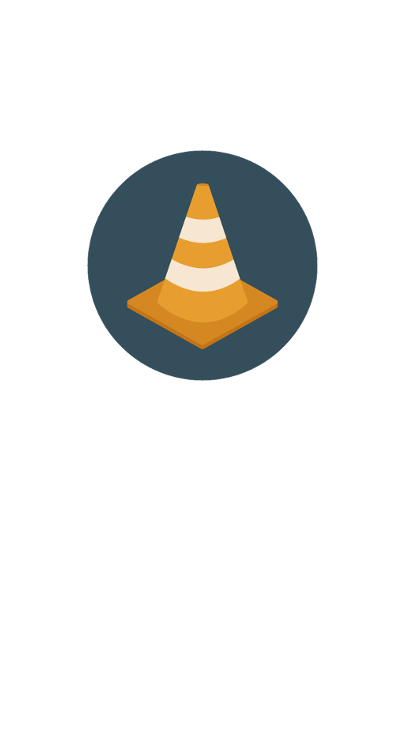
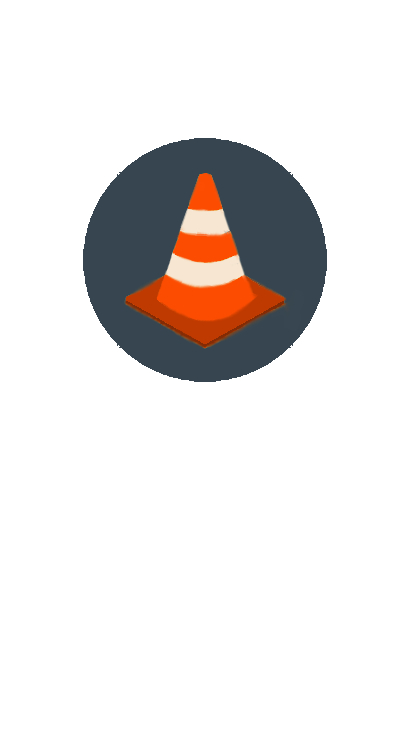
general styling

diff --git a/components/login.js b/components/login.js
@@ -1,10 +1,10 @@
 import React, { Component } from 'react'
-import { Text, ImageBackground, View, StyleSheet, Dimensions } from 'react-native'
+import { Text, ImageBackground, View, Image, StyleSheet, Dimensions } from 'react-native'
 import { Container, Header, Content, Form, Item, Input, Label, Button } from 'native-base'
 import { auth } from '../store'
 import { connect } from 'react-redux'
 
-//const ScreenHeight = Dimensions.get('window').height;
+const ScreenHeight = Dimensions.get('window').height;
 
 class Login extends Component {
   constructor() {
@@ -38,38 +38,43 @@ class Login extends Component {
     //   </View>
     // )
     return (
-      <View style={styles.container}>
-        <Form>
-          <Item stackedLabel>
-            <Label>Username</Label>
-            <Input
-              autoFocus
-              autoCapitalize='none'
-              value={this.state.username}
-              onChangeText={(text) => this.setState({ username: text })} />
-          </Item>
-          <Item stackedLabel>
-            <Label>Password</Label>
-            <Input
-              secureTextEntry
-              value={this.state.password}
-              onChangeText={(text) => this.setState({ password: text })} />
-          </Item>
-          {!!this.state.error &&
-            <Item>
-              <Text style={styles.error}>Incorrect username or password</Text>
-            </Item>
-          }
-          <Button primary block onPress={() => {
-            this.props.handleSubmit(this.state.username, this.state.password, 'login')
-              .then((res) => {
-                if (res.error) this.setState({ error: res.error })
-              }).catch((error) => console.error(error))
-          }}>
-            <Text style={styles.buttonText}>Login</Text>
-          </Button>
-        </Form>
-      </View>
+      <Container style={{ backgroundColor: "white" }}>
+        <Content style={styles.container}>
+          <Image source={require('../customStyling/logo5.jpg')} style={styles.image} />
+          <View >
+            <Form>
+              <Item stackedLabel>
+                <Label>Username</Label>
+                <Input
+                  autoFocus
+                  autoCapitalize='none'
+                  value={this.state.username}
+                  onChangeText={(text) => this.setState({ username: text })} />
+              </Item>
+              <Item stackedLabel>
+                <Label>Password</Label>
+                <Input
+                  secureTextEntry
+                  value={this.state.password}
+                  onChangeText={(text) => this.setState({ password: text })} />
+              </Item>
+              {!!this.state.error &&
+                <Item>
+                  <Text style={styles.error}>Incorrect username or password</Text>
+                </Item>
+              }
+              <Button primary block style={styles.button} onPress={() => {
+                this.props.handleSubmit(this.state.username, this.state.password, 'login')
+                  .then((res) => {
+                    if (res.error) this.setState({ error: res.error })
+                  }).catch((error) => console.error(error))
+              }}>
+                <Text style={styles.text}>Login</Text>
+              </Button>
+            </Form>
+          </View>
+        </Content>
+      </Container>
     )
   }
 }
@@ -77,11 +82,16 @@ class Login extends Component {
 const styles = StyleSheet.create({
   container: {
     backgroundColor: 'white',
+    marginTop: 100,
+    marginLeft: 10,
+    marginRight: 10
   },
   button: {
     width: '80%',
-    marginTop: 375,
+    marginTop: 10,
     alignSelf: 'center',
+    backgroundColor: '#FC4C02',
+    //color: 'white'
   },
   flex: {
     flex: 1,
@@ -96,9 +106,12 @@ const styles = StyleSheet.create({
   },
   image: {
     //height: ScreenHeight,
-    width: '100%',
-    marginTop: 0,
+    //width: '10%',
+    marginTop: 20,
     alignSelf: 'center',
+  },
+  text: {
+    color: 'white'
   }
 })
 

diff --git a/components/resident/AddPotholeLocation.js b/components/resident/AddPotholeLocation.js
@@ -223,36 +223,35 @@ class AddPotholeLocation extends React.Component {
             {this.state.showCallout && (
               <Card style={styles.card}>
                 <CardItem>
-                  <Icon
-                    type="Entypo"
-                    active
-                    name="traffic-cone"
-                    style={{
-                      color: 'orange',
-                    }}
-                  />
                   <Text>
-                    These are potholes. If you see yours, you can click to view
-                    and upvote.
+                    <Icon
+                      type="Entypo"
+                      active
+                      name="traffic-cone"
+                      style={{
+                        color: '#FC4C02',
+                      }}
+                    /> These are potholes. If you see yours, you can click to view and upvote.
                   </Text>
                 </CardItem>
                 <CardItem>
                   <Text style={{ alignSelf: 'center' }}>
-                    If not, you can start a new report by confirming its
-                    address.
+                    If not, you can start a new report by confirming its address.
                   </Text>
                 </CardItem>
-                <Right style={{ alignSelf: 'flex-end' }}>
-                  <Button small bordered style={{margin: 3}}
-                    onPress={() =>
-                      this.setState({
-                        showCallout: false,
-                      })
-                    }
-                  >
-                    <Text>Got it!</Text>
-                  </Button>
-                </Right>
+                <CardItem>
+                  <Right style={{ alignSelf: 'flex-end' }}>
+                    <Button small bordered style={{ margin: 3 }}
+                      onPress={() =>
+                        this.setState({
+                          showCallout: false,
+                        })
+                      }
+                    >
+                      <Text>Got it!</Text>
+                    </Button>
+                  </Right>
+                </CardItem>
               </Card>
             )}
           </View>
@@ -314,19 +313,29 @@ const styles = StyleSheet.create({
   },
   map: {
     position: 'absolute',
-    top: 0,
-    right: 0,
-    bottom: 0,
-    left: 0,
+    top: 5,
+    right: 5,
+    bottom: 5,
+    left: 5,
     height: ScreenHeight / 1.6,
   },
   text: {
-    padding: 10,
+    padding: 20,
+    backgroundColor: '#36454F',
+    color: 'white',
+    //alignSelf: 'center',
+    //width: '95%',
+    //height: 25,
+    borderRadius: 10
+    // borderWidth: 1,
+    // borderColor: 'white',
+
   },
   button: {
-    marginLeft: 10,
-    marginRight: 10,
     marginTop: 10,
+    width: '80%',
+    alignSelf: 'center',
+    backgroundColor: '#FC4C02'
   },
 });
 

diff --git a/components/resident/HomeScreen.js b/components/resident/HomeScreen.js
@@ -1,6 +1,6 @@
 import React from 'react';
-import { StyleSheet, ImageBackground, Dimensions } from 'react-native'
-import { View, Text, Button } from 'native-base'
+import { StyleSheet, ImageBackground, Dimensions, Image } from 'react-native'
+import { View, Text, Button, Content } from 'native-base'
 
 
 const ScreenHeight = Dimensions.get('window').height;
@@ -14,9 +14,10 @@ export default class HomeScreen extends React.Component {
     const { navigate } = this.props.navigation
     return (
       <View style={styles.container}>
-        <ImageBackground source={require('../../customStyling/home.jpg')} style={styles.image}>
-          <Button block rounded style={styles.button} onPress={() => navigate('ReportPothole')}>
-            <Text>Report a Pothole</Text>
+
+        <ImageBackground source={require('../../customStyling/home5.jpg')} style={styles.image} >
+          <Button block style={styles.button} onPress={() => navigate('ReportPothole')}>
+            <Text >Report a Pothole</Text>
           </Button>
         </ImageBackground>
       </View>
@@ -30,8 +31,10 @@ const styles = StyleSheet.create({
   },
   button: {
     width: '80%',
-    marginTop: 375,
+    marginTop: 380,
     alignSelf: 'center',
+    backgroundColor: '#FC4C02',
+    color: 'white'
   },
   flex: {
     flex: 1,
@@ -49,5 +52,8 @@ const styles = StyleSheet.create({
     width: '100%',
     marginTop: 0,
     alignSelf: 'center',
+  },
+  text: {
+    color: 'white'
   }
 })

diff --git a/store/user.js b/store/user.js
@@ -8,27 +8,33 @@ const REMOVE_USER = 'REMOVE_USER'
 const defaultUser = {}
 
 // action creators
-const createGetUserAction = (user) => ({type: GET_USER, user})
-const createRemoveUserAction = () => ({type: REMOVE_USER})
+const createGetUserAction = (user) => ({ type: GET_USER, user })
+const createRemoveUserAction = () => ({ type: REMOVE_USER })
 
 // thunk creators
-export const me = () =>
-  dispatch =>
+export const me = () => {
+  return (dispatch =>
     axios.get(`${process.env.SERVER_URL}/auth/me`)
       .then(res =>
         dispatch(createGetUserAction(res.data || defaultUser)))
-      .catch(err => console.log(err))
+      .catch(err => console.log(err)))
+}
 
-export const auth = (email, password, method) =>
-  dispatch =>
+export const auth = (email, password, method) => {
+  return (dispatch =>
     axios.post(`${process.env.SERVER_URL}/auth/${method}`, { email, password })
       .then(res => {
         dispatch(createGetUserAction(res.data))
+        console.log("IM here6")
         return res.data
       }, authError => { // rare example: a good use case for parallel (non-catch) error handler
+        debugger
         return { error: authError.message }
       })
       .catch(dispatchOrHistoryErr => console.error(dispatchOrHistoryErr))
+  )
+
+}
 
 export const logout = () =>
   dispatch =>

diff --git a/components/resident/LandingPage.js b/components/resident/LandingPage.js
@@ -1,7 +1,7 @@
 import React from 'react'
 import { connect } from 'react-redux'
 import { logout } from '../../store'
-import { StyleSheet, ImageBackground, Dimensions } from 'react-native'
+import { StyleSheet, ImageBackground, Image, Dimensions } from 'react-native'
 import { Container, View, Text, Button, Icon } from 'native-base'
 
 
@@ -11,8 +11,8 @@ export const LandingPage = (props) => {
   return (
     <Container >
       <View >
-        <ImageBackground source={require('../../customStyling/landing-page.jpg')} style={styles.image}>
-          <Button block rounded style={styles.button} onPress={() => props.navigation.navigate('Home')}>
+        <ImageBackground source={require('../../customStyling/landing-page2.jpg')} style={styles.image}>
+          <Button block style={styles.button} onPress={() => props.navigation.navigate('Home')}>
             <Text>Home</Text>
           </Button>
         </ImageBackground>
@@ -27,8 +27,9 @@ const styles = StyleSheet.create({
   },
   button: {
     width: '80%',
-    marginTop: 250,
+    marginTop: 350,
     alignSelf: 'center',
+    backgroundColor: '#FC4C02'
   },
   flex: {
     flex: 1,

diff --git a/App.js b/App.js
@@ -1,3 +1,4 @@
+console.log("IM here1")
 import React from 'react';
 import * as Expo from 'expo'
 import { Provider } from 'react-redux';
@@ -16,6 +17,7 @@ export default class App extends React.Component {
   }
 
   componentWillMount() {
+    console.log("IM here2")
     this.loadFonts();
   }
 
@@ -31,8 +33,9 @@ export default class App extends React.Component {
 
   render() {
     const { isReady } = this.state
+    console.log("IM here3")
     if (!isReady) return <View />
-
+    console.log("IM here4 ")
     return (
       <Provider store={store}>
         <Main />

diff --git a/components/resident/ReportForm.js b/components/resident/ReportForm.js
@@ -87,6 +87,9 @@ const styles = StyleSheet.create({
   },
   button: {
     marginTop: 30,
+    backgroundColor: '#FC4C02',
+    width: "90%",
+    alignSelf: 'center'
   },
   formGroup: {
     marginBottom: 20,
@@ -95,4 +98,16 @@ const styles = StyleSheet.create({
     flexDirection: 'row',
     alignItems: 'center',
   },
+  text: {
+    padding: 20,
+    backgroundColor: '#36454F',
+    color: 'white',
+    //alignSelf: 'center',
+    //width: '100%',
+    //height: 25,
+    borderRadius: 10
+    // borderWidth: 1,
+    // borderColor: 'white',
+
+  }
 })

diff --git a/components/routes/resident.js b/components/routes/resident.js
@@ -86,9 +86,9 @@ export default createStackNavigator({
 }, {
     headerMode: 'float',
     navigationOptions: ({ navigation }) => ({
-      headerStyle: { backgroundColor: 'grey' },
+      headerStyle: { backgroundColor: '#FC4C02' },
       headerTintColor: 'white',
       title: 'Pothole Patrol',
-      headerLeft: <Icon name="menu" style={{ marginLeft: 15 }} onPress={() => navigation.toggleDrawer()} />
+      headerLeft: <Icon name="menu" style={{ marginLeft: 15, color: "white" }} onPress={() => navigation.toggleDrawer()} />
     })
   })
